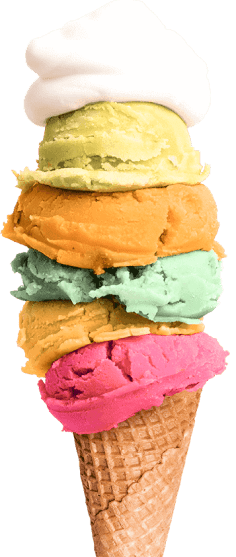
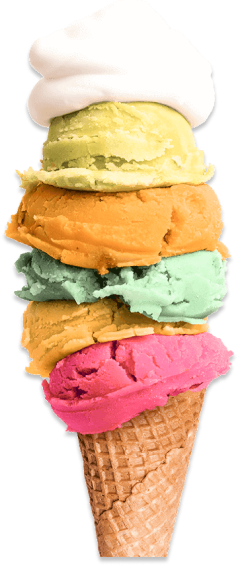
hero imgs sources

Changed region(s): [[0.0, 0.1526, 0.9788, 1.0], [0.089, 0.0916, 0.178, 0.2136]]

diff --git a/src/partials/hero.html b/src/partials/hero.html
@@ -1,51 +1,63 @@
-<section class="hero__section section"  id="hero">
+<section class="hero__section section" id="hero">
   <div class="hero__title-wrapper">
-    <h1 class="section__title hero__title ">
+    <h1 class="section__title hero__title">
       ICE CREAM <br />
       MADE WITH <br />
       <span>PASSION</span>
     </h1>
-  
+
     <ul class="hero__btns btns">
-      <li class="btn hero__btn "><a href="#products">Products</a></li>
-      <li. class="btn hero__btn"><a href="#howItsMade">How it’s made?</a></li>
+      <li class="btn hero__btn"><a href="#products">Products</a></li>
+      <li class="btn hero__btn"><a href="#howItsMade">How it’s made?</a></li>
     </ul>
   </div>
-  
+
   <ul class="hero__stats">
     <li class="hero__stats-item section__title">16 <span>cafes</span></li>
     <li class="hero__stats-item section__title">23 <span>food trucks</span></li>
     <li class="hero__stats-item">
       <picture>
-      <source 
-      srcset="./images/hero-girl-tab.png 1x, ./images/hero-girl-tab@2x.png  2x"
-      media="(min-width: 768px)"
-      type="image/png"
-      />
-      <img src="./images/hero-girl-tab.png" alt="girl">
-    </picture>
-  </li>
-    <!-- <picture>
-      <source 
-      srcset="./images/hero-girl-tab.png 1x, ./images/hero-girl-tab@2x.png  2x"
-      media="(min-width: 768px)"
-      type="image/png"
-      />
-      <img src="./images/hero-girl-tab.png" alt="girl">
-    </picture> -->
-    <!-- <li class="hero__stats-item"><img src="./images/hero-girl-tab.png" alt="girl"></li> -->
+        <source
+          srcset="
+            ./images/hero-girl-tab.png    1x,
+            ./images/hero-girl-tab@2x.png 2x
+          "
+          media="(min-width: 768px)"
+          type="image/png"
+        />
+        <img src="./images/hero-girl-tab.png" alt="girl" />
+      </picture>
+    </li>
   </ul>
 
-  <!-- <ul class="hero__images">
-    <li class="hero__img"><img src="./images/hero-16cal.png" alt="calories"></li>
-    <li class="hero__img"><img src="./images/hero-23.png" alt="tracks"></li>
-    <li class="hero__img"><img src="./images/hero-girl.png" alt="girl"></li>
-  </ul> -->
-  <picture><img
-    class="hero__icecream"
-    src="images/hero-icecream-mob.png"
-    alt="ice cream"
-  /></picture>
-  
-  
+  <picture>
+    <source
+      srcset="./images/hero-icecream.png 1x, ./images/hero-icecream@2x.png 2x"
+      media="(min-width: 1200px)"
+      type="image/png"
+    />
+
+    <source
+      srcset="
+        ./images/hero-icecream-tab.png    1x,
+        ./images/hero-icecream-tab@2x.png 2x
+      "
+      media="(min-width: 768px)"
+      type="image/png"
+    />
+
+    <source
+      srcset="
+        ./images/hero-icecream-mob.png    1x,
+        ./images/hero-icecream-mob@2x.png 2x
+      "
+      media="(max-width: 767px)"
+      type="image/png"
+    />
+    <img
+      class="hero__icecream"
+      src="images/hero-icecream-mob.png"
+      alt="ice cream"
+    />
+  </picture>
 </section>

diff --git a/src/sass/mob/_hero.scss b/src/sass/mob/_hero.scss
@@ -64,9 +64,8 @@
 }
 
 .hero__icecream {
-  // position: absolute;
-  // bottom: 0;
-  margin-bottom: -7px;
+  position: absolute;
+  bottom: -7px;
   opacity: 0;
   animation-name: icecream;
   animation-duration: var(--animationDuration);
@@ -81,7 +80,7 @@
   }
   100% {
     position: absolute;
-    bottom: 0;
+    bottom: -7px;
     opacity: 1;
     width: 171px;
     right: 32px;
@@ -106,18 +105,17 @@
   }
 }
 
-@keyframes hero__btns {
+@keyframes icecream {
   0% {
-    opacity: 0;
-    scale: 0.1;
-  }
-  80% {
-    opacity: 1;
-    scale: 1.3;
+    width: 11px;
+    right: 132px;
   }
   100% {
+    position: absolute;
+    bottom: -7px;
     opacity: 1;
-    scale: 1;
+    width: 171px;
+    right: 32px;
   }
 }
 

diff --git a/src/sass/index.scss b/src/sass/index.scss
@@ -4,18 +4,19 @@
 
 @import './variables';
 
-@import './header.scss';
-@import '../sass/tablet/header';
-@import '../sass/desktop/header';
+@import './mob/header';
+@import './tablet/header';
+@import './desktop/header';
 
-@import './hero';
+@import './mob/hero';
 @import './tablet/hero';
+@import './desktop/hero';
 
-@import './products';
-@import './howItsMade';
-@import './gallery';
-@import './reviews';
-@import './location';
-@import './footer';
+@import './mob/products';
+@import './mob/howItsMade';
+@import './mob/gallery';
+@import './mob/reviews';
+@import './mob/location';
+@import './mob/footer';
 
 @import './buttons';

diff --git a/src/partials/header.html b/src/partials/header.html
@@ -16,11 +16,11 @@
     </li>
 
     <li class="header__nav-item">
-      <a class="header__nav-linc" href="#products">Our products</a>
+      <a class="header__nav-linc" href="#howItsMade">How it’s made?</a>
     </li>
 
     <li class="header__nav-item">
-      <a class="header__nav-linc" href="#howItsMade">How it’s made?</a>
+      <a class="header__nav-linc" href="#products">Our products</a>
     </li>
 
     <li class="header__nav-item">

diff --git a/src/sass/desktop/_hero.scss b/src/sass/desktop/_hero.scss
@@ -1,0 +1,16 @@
+@media screen and (min-width: $desktop) {
+  .hero__section {
+    min-height: 665px;
+  }
+  @keyframes icecream {
+    0% {
+      width: 11px;
+      right: 132px;
+    }
+    100% {
+      opacity: 1;
+      width: 236px;
+      right: 450px;
+    }
+  }
+}

diff --git a/src/sass/tablet/_hero.scss b/src/sass/tablet/_hero.scss
@@ -27,15 +27,11 @@
   @keyframes icecream {
     0% {
       width: 11px;
-      // left: 300px;
       right: 132px;
     }
     100% {
-      position: absolute;
-      bottom: 0;
       opacity: 1;
       width: 143px;
-      // left: 110px;
       right: 247px;
     }
   }
